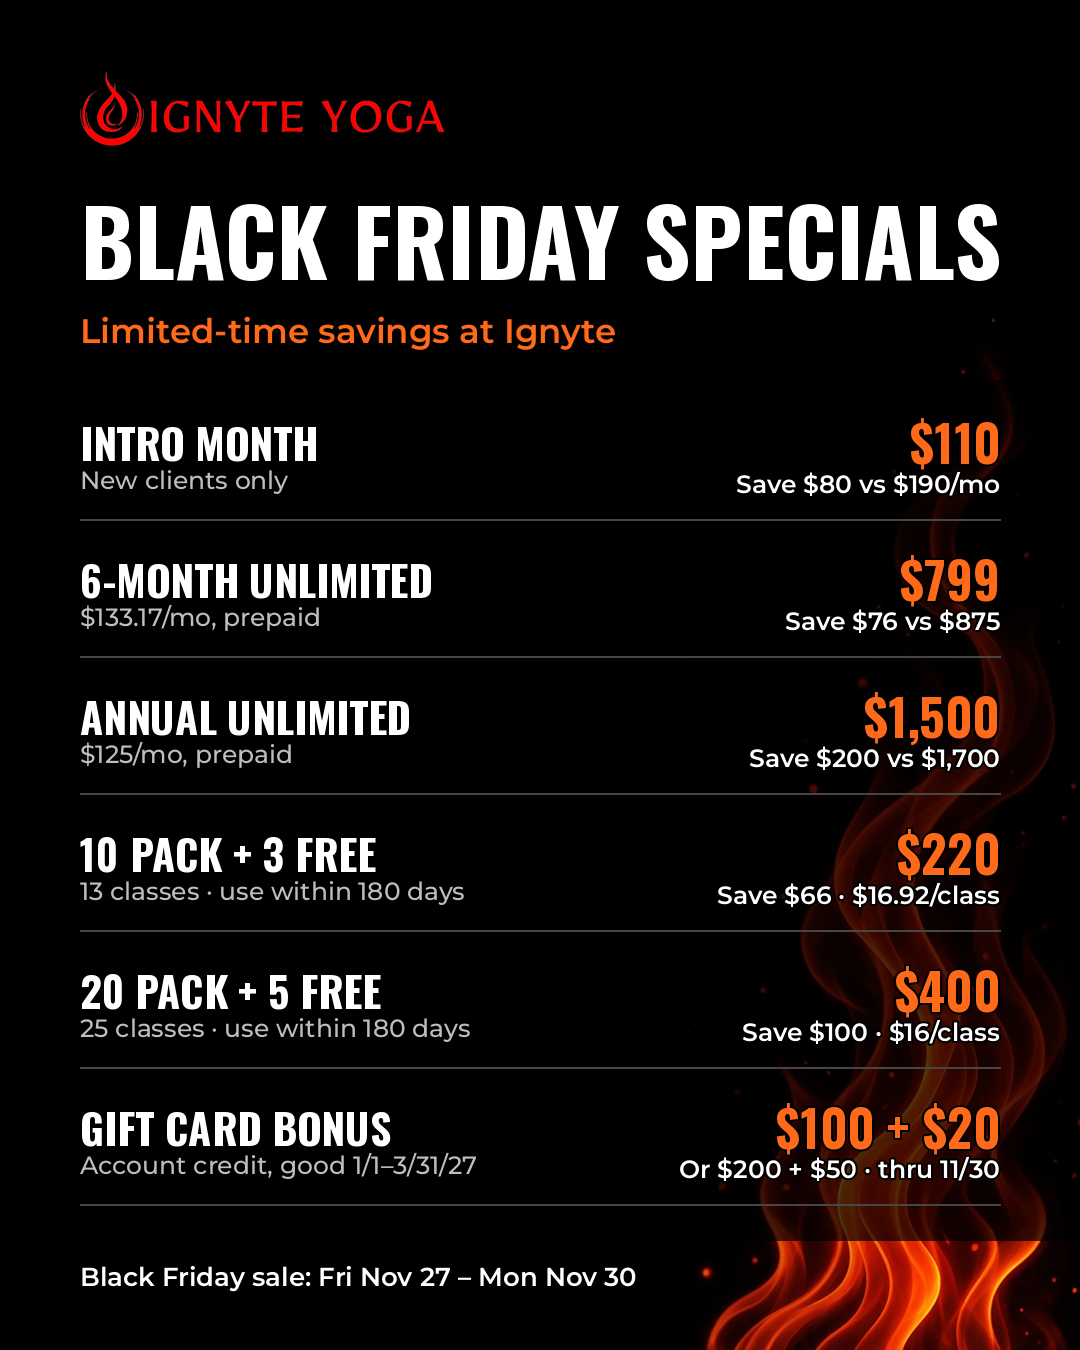
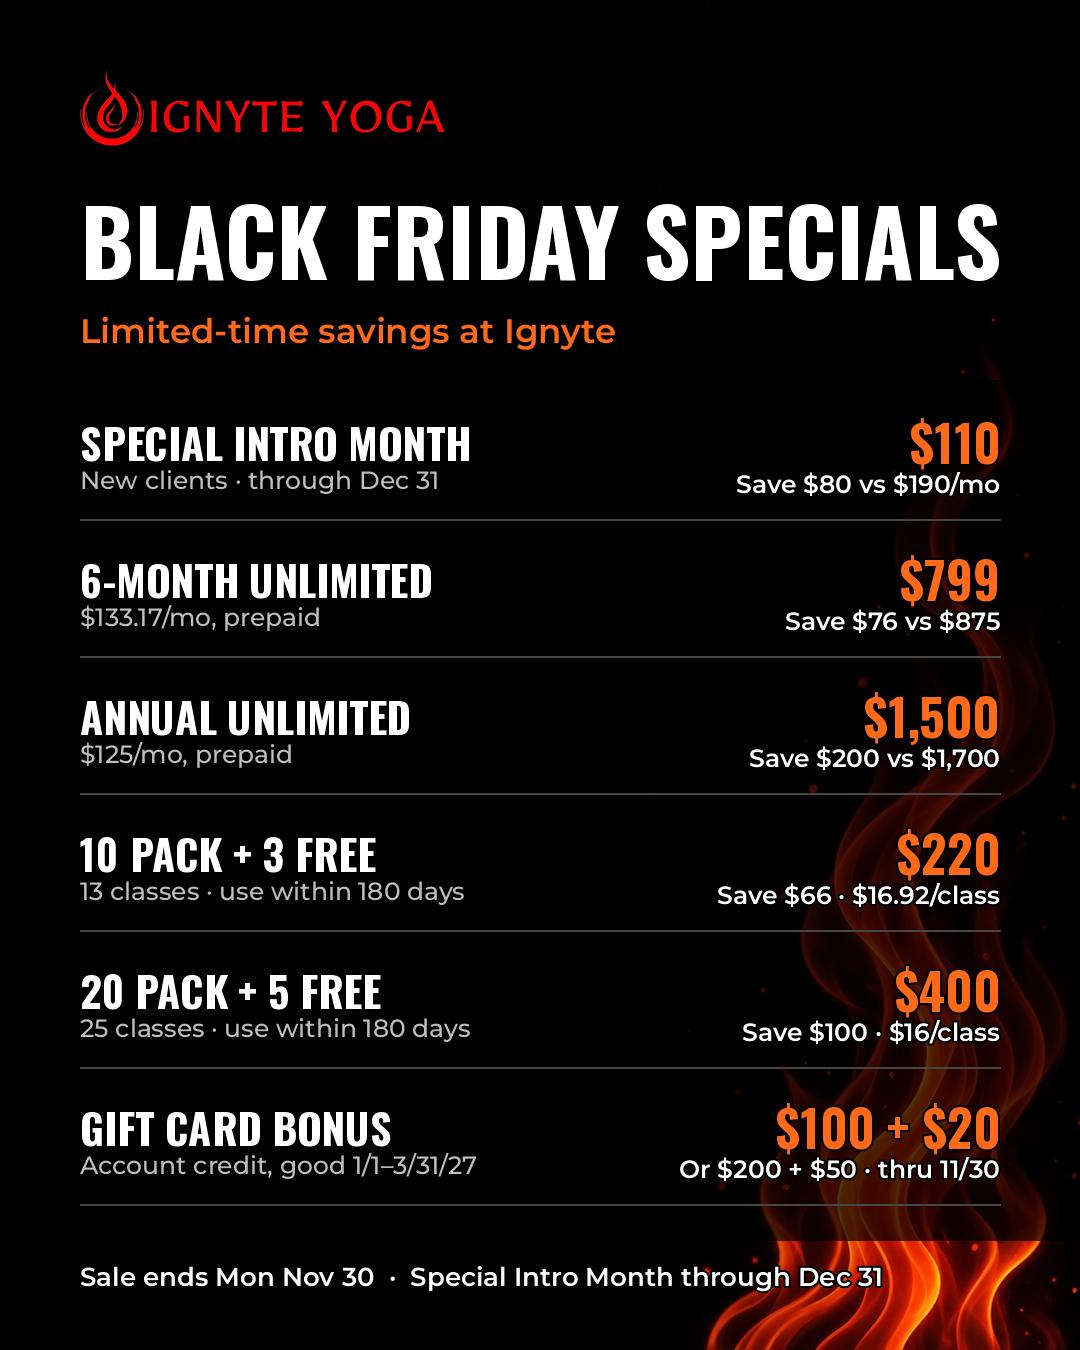
Keep the Special Intro Month through December 31.
The $110 new-client month stays up after the other Black Friday specials end on November 30. The home banner and rates callout switch to that offer, and the refreshed graphics match the new dates.

Changed region(s): [[0.0611, 0.9333, 0.825, 0.9644], [0.0611, 0.3111, 0.4583, 0.3733]]

diff --git a/src/pages/black-friday.html b/src/pages/black-friday.html
@@ -2,19 +2,21 @@
 <html lang="en">
 <head>
   <title>Black Friday | Hot Yoga Frisco | Ignyte Yoga</title>
-  <meta name="description" content="Black Friday specials at Ignyte Yoga in Frisco: intro month, unlimited plans, class packs with free classes, and a gift card bonus.">
+  <meta name="description" content="Black Friday at Ignyte Yoga in Frisco: Special Intro Month $110 through Dec 31. Other specials end Nov 30.">
   <link rel="canonical" href="https://ignyteyoga.com/black-friday/">
 </head>
 <body>
 <main>
   <!--
-    Black Friday 2026. Sale offers hide after Mon Nov 30, 2026, 11:59 PM America/Chicago
-    (data-show-until 2026-12-01T00:00:00-06:00), including the gift card bonus.
-    Preview the ended state with ?bfdate=2026-12-01.
+    Black Friday 2026. Memberships, packs, and the gift card bonus hide after
+    Mon Nov 30, 2026, 11:59 PM America/Chicago (data-show-until 2026-12-01T00:00:00-06:00).
+    The $110 Special Intro Month hides after Thu Dec 31, 2026, 11:59 PM America/Chicago
+    (data-show-until 2027-01-01T00:00:00-06:00).
+    Preview with ?bfdate=2026-11-28, ?bfdate=2026-12-01, ?bfdate=2026-12-31, and ?bfdate=2027-01-01.
   -->
   <div data-bf-page>
-    <section class="bf-hero" data-show-until="2026-12-01T00:00:00-06:00">
-      <img src="/assets/source/images/black-friday-header.png" alt="Ignyte Yoga Black Friday specials banner. Bonus classes on packs, prepaid unlimited savings, a $110 intro month for new clients, and a gift card bonus. Sale Friday November 27 through Monday November 30." width="1200" height="400" sizes="100vw" loading="eager" fetchpriority="high">
+    <section class="bf-hero" data-show-until="2027-01-01T00:00:00-06:00">
+      <img src="/assets/source/images/black-friday-header.png" alt="Ignyte Yoga Black Friday specials banner. A $110 Special Intro Month for new clients runs Friday November 27 through Thursday December 31. The other specials, including the gift card bonus, run Friday November 27 through Monday November 30." width="1200" height="400" sizes="100vw" loading="eager" fetchpriority="high">
     </section>
 
     <section class="section">
@@ -23,22 +25,24 @@
       </div>
       <div data-bf-live>
         <div class="narrow center">
-          <p class="bf-dates">Sale Fri Nov 27 - Mon Nov 30 · Includes gift card bonus</p>
-          <p data-show-until="2026-12-01T00:00:00-06:00">Our Black Friday specials are here, Fri Nov 27 - Mon Nov 30. Lock in months of hot classes, stock up on packs with free bonus classes, give a gift card with bonus credit, or bring a friend who's new to us for their first month.</p>
+          <p class="bf-dates" data-show-until="2026-12-01T00:00:00-06:00">Sale Fri Nov 27 - Mon Nov 30 · Includes gift card bonus. Special Intro Month through Dec 31.</p>
+          <p class="bf-dates" data-show-from="2026-12-01T00:00:00-06:00" data-show-until="2027-01-01T00:00:00-06:00" hidden>Special Intro Month $110 · New clients · Through Dec 31</p>
+          <p data-show-until="2026-12-01T00:00:00-06:00">Our Black Friday specials are here, Fri Nov 27 - Mon Nov 30. The $110 Special Intro Month for new clients runs through Thu Dec 31. Lock in months of hot classes, stock up on packs with free bonus classes, give a gift card with bonus credit, or bring a friend who's new to us for their first month.</p>
+          <p data-show-from="2026-12-01T00:00:00-06:00" data-show-until="2027-01-01T00:00:00-06:00" hidden>The Special Intro Month is still on through Thu Dec 31. $110 for 30 days unlimited, for new clients.</p>
           <p class="note" data-show-until="2026-12-01T00:00:00-06:00">The studio is closed Thanksgiving, Thursday, Nov 26.</p>
-          <p data-show-until="2026-12-01T00:00:00-06:00">Grab yours in the Mindbody app or at the front desk.</p>
+          <p data-show-until="2027-01-01T00:00:00-06:00">Grab yours in the Mindbody app or at the front desk.</p>
           <noscript>
-            <p class="bf-noscript">Memberships, class packs, the intro month, and the gift card bonus are offered through Monday, November 30, 2026, 11:59 PM Central. This page cannot hide an expired offer when JavaScript is off.</p>
+            <p class="bf-noscript">The $110 Special Intro Month for new clients runs Friday, November 27 through Thursday, December 31, 2026, 11:59 PM Central. The other specials, including the gift card bonus, end Monday, November 30, 2026, 11:59 PM Central. This page cannot hide an expired offer when JavaScript is off.</p>
           </noscript>
         </div>
 
         <div class="wrap bf-offers">
-          <article class="bf-offer" data-show-until="2026-12-01T00:00:00-06:00">
-            <h2>Intro Month</h2>
-            <p class="bf-kicker">New clients only</p>
+          <article class="bf-offer" id="special-intro-month" data-show-until="2027-01-01T00:00:00-06:00">
+            <h2>Special Intro Month</h2>
+            <p class="bf-kicker">New clients only · Through Dec 31</p>
             <p class="bf-price">$110</p>
-            <p class="bf-detail">$110 for 30 days unlimited (save $80 vs $190 month-to-month).</p>
-            <a class="btn" href="https://go.mindbodyonline.com/book/app/pricing/bus_11Lfu6UU5eS1EiQoY/po_11Lfu6UU5eS1EZJkS" target="_blank" rel="noopener" aria-label="Buy Intro Month">Buy</a>
+            <p class="bf-detail">$110 for 30 days unlimited (save $80 vs $190 month-to-month). Runs Fri Nov 27 through Thu Dec 31.</p>
+            <a class="btn" href="https://go.mindbodyonline.com/book/app/pricing/bus_11Lfu6UU5eS1EiQoY/po_11Lfu6UU5eS1EZJkS" target="_blank" rel="noopener" aria-label="Buy Special Intro Month">Buy</a>
           </article>
 
           <article class="bf-offer" data-show-until="2026-12-01T00:00:00-06:00">
@@ -80,8 +84,11 @@
         </div>
 
         <div class="wrap bf-figures">
+          <figure data-show-until="2027-01-01T00:00:00-06:00">
+            <img src="/assets/source/images/black-friday-intro.png" alt="Ignyte Yoga Special Intro Month: $110 for 30 days of unlimited classes for new clients, save $80 versus the regular $190 month. Runs Friday November 27 through Thursday December 31, 2026." width="1080" height="1350">
+          </figure>
           <figure data-show-until="2026-12-01T00:00:00-06:00">
-            <img src="/assets/source/images/black-friday-offers.png" alt="Ignyte Yoga Black Friday offer list: Intro Month $110 for new clients, save $80 versus $190 a month, 6-month unlimited $799, annual unlimited $1,500, 10-class pack plus 3 free for $220, 20-class pack plus 5 free for $400, and a gift card bonus." width="1080" height="1350">
+            <img src="/assets/source/images/black-friday-offers.png" alt="Ignyte Yoga Black Friday offer list: Special Intro Month $110 for new clients through December 31, 6-month unlimited $799, annual unlimited $1,500, 10-class pack plus 3 free for $220, 20-class pack plus 5 free for $400, and a gift card bonus through November 30." width="1080" height="1350">
           </figure>
           <figure data-show-until="2026-12-01T00:00:00-06:00">
             <img src="/assets/source/images/black-friday-gift-card.png" alt="Ignyte Yoga gift card bonus: buy a $100 gift card and get $20 extra, or buy a $200 gift card and get $50 extra. Bonus credit is good January 1 through March 31, 2027. The bonus is part of the Black Friday sale through Monday, November 30." width="1080" height="1350">

diff --git a/src/partials/black-friday-banner.html b/src/partials/black-friday-banner.html
@@ -1,8 +1,9 @@
 <!--
   Black Friday 2026 home banner.
   Included from src/pages/index.html while BLACK_FRIDAY_HOME_BANNER is true in src/promos.mjs.
-  The sale and the gift card bonus both hide after Mon Nov 30, 2026, 11:59 PM America/Chicago.
-  Preview the ended state with ?bfdate=2026-12-01.
+  The full sale hides after Mon Nov 30, 2026, 11:59 PM America/Chicago.
+  The Special Intro Month banner hides after Thu Dec 31, 2026, 11:59 PM America/Chicago.
+  Preview with ?bfdate=2026-11-28, ?bfdate=2026-12-01, and ?bfdate=2027-01-01.
 -->
 <section class="gift-banner bf-banner" data-promo="black-friday" aria-label="Black Friday at Ignyte">
   <div class="gift-banner-inner" data-show-until="2026-12-01T00:00:00-06:00">
@@ -12,8 +13,15 @@
     </p>
     <a class="btn" href="/black-friday/">Shop Black Friday Specials</a>
   </div>
+  <div class="gift-banner-inner" data-show-from="2026-12-01T00:00:00-06:00" data-show-until="2027-01-01T00:00:00-06:00" hidden>
+    <p>
+      <strong class="bf-banner-title">Special Intro Month $110</strong>
+      <span class="bf-banner-dates">New clients · Through Dec 31</span>
+    </p>
+    <a class="btn" href="/black-friday/#special-intro-month">Shop the Special Intro Month</a>
+  </div>
   <noscript>
-    <p class="bf-noscript">Black Friday specials, including the gift card bonus, run through Monday, November 30, 2026, 11:59 PM Central.</p>
+    <p class="bf-noscript">Most Black Friday specials, including the gift card bonus, end Monday, November 30, 2026. The $110 Special Intro Month for new clients runs through Thursday, December 31, 2026.</p>
   </noscript>
 </section>
 <script type="module" src="/scripts/black-friday.js"></script>

diff --git a/src/pages/rates.html b/src/pages/rates.html
@@ -17,11 +17,16 @@
     <div class="wrap">
       <aside class="bf-callout" data-show-until="2026-12-01T00:00:00-06:00">
         <h2>Black Friday</h2>
-        <p>Sale Fri Nov 27 - Mon Nov 30 · Includes gift card bonus.</p>
+        <p>Sale Fri Nov 27 - Mon Nov 30 · Includes gift card bonus. Special Intro Month through Dec 31.</p>
         <p><a class="btn" href="/black-friday/">Shop Black Friday Specials</a></p>
       </aside>
+      <aside class="bf-callout" data-show-from="2026-12-01T00:00:00-06:00" data-show-until="2027-01-01T00:00:00-06:00" hidden>
+        <h2>Special Intro Month</h2>
+        <p>Special Intro Month $110 · New clients · Through Dec 31.</p>
+        <p><a class="btn" href="/black-friday/#special-intro-month">Shop the Special Intro Month</a></p>
+      </aside>
       <noscript>
-        <p class="bf-noscript">Black Friday specials, including the gift card bonus, run through Monday, November 30, 2026, 11:59 PM Central.</p>
+        <p class="bf-noscript">Most Black Friday specials, including the gift card bonus, end Monday, November 30, 2026. The $110 Special Intro Month for new clients runs through Thursday, December 31, 2026.</p>
       </noscript>
     </div>
     <div class="wrap prices">
